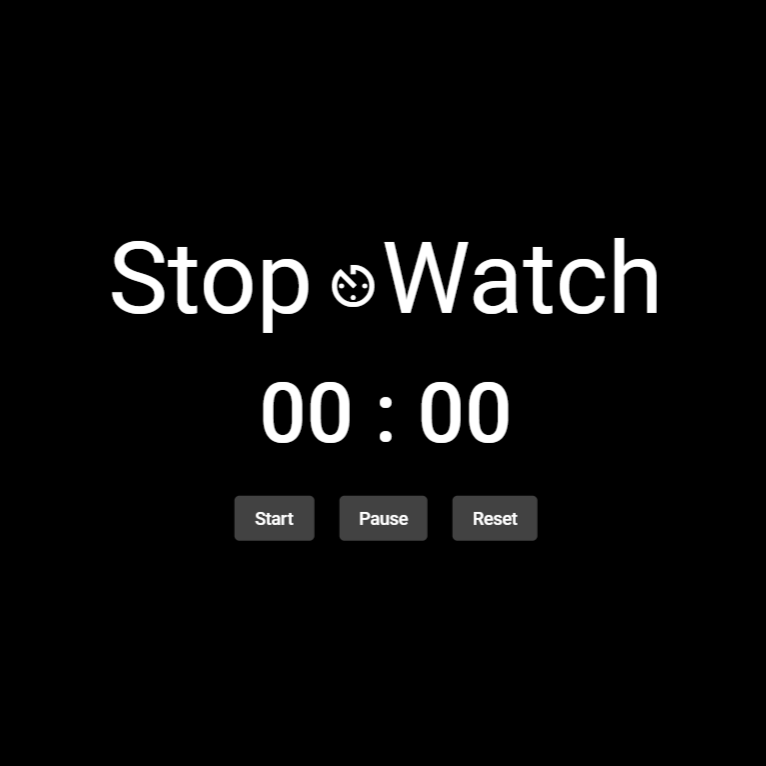
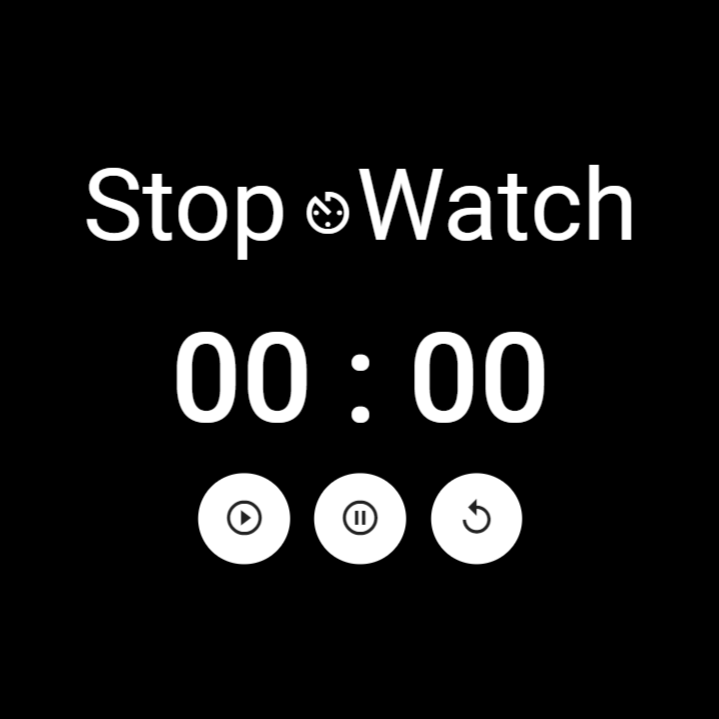
changed app screenshot in readme

diff --git a/src/app/app.component.scss b/src/app/app.component.scss
@@ -35,6 +35,6 @@
 }
 
 .timerContainer {
-  margin-top: 70px;
-  margin-bottom: 70px;
+  margin-top: 90px;
+  margin-bottom: 60px;
 }
